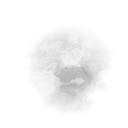
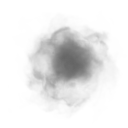
Explosion update.

Changed region(s): [[0.2188, 0.1875, 0.8438, 0.7812]]

diff --git a/Source/PlaySpace.cpp b/Source/PlaySpace.cpp
@@ -6,6 +6,7 @@
 
 #include "PlaySpace.h"
 #include "AssetDefinition.h"
+#include <Springbok/Procedural/Noise.h>
 #include <GL/gl.h>
 #include <Springbok/Animation/Interpolation.h>
 #include <Springbok/Utils/CliArgumentParser.h>
@@ -431,16 +432,23 @@ ContainerSubrange<ViewBase< Ship*, float >, Ship*> PlaySpace::findShips(Vec2F to
 	return GeoViews.Ships.XAxisView.getRange(topLeft.X, bottomRight.X);
 }
 
-void PlaySpace::castParticles(const Particle& def, Vec2F position, int amount, RangeF power, Color col, RangeF scale, RangeF lifetime)
+void PlaySpace::castParticles(const Particle& def, Vec2F position, int amount, RangeF power, Color col, RangeF scale, RangeF lifetime, float turbulenceFactor)
 {
 	for(int i = 0; i < amount; ++i)
 	{
+		Noise1D turbulence;
+		turbulence.Octaves = 2;
+		turbulence.Interval = 0.25f;
+		
 		Particle p(def);
-		Angle angle = Angle::FromTurn(gRNG.getFloat());
+		float angleF = gRNG.getFloat();
+		Angle angle = Angle::FromTurn(angleF);
+		float angTurb = turbulence.calc(angleF);
+		
 		p.Colorization = col;
 		p.Position = position;
 		p.Size = gRNG.getNumber(scale);
-		p.Speed = angle.toDirection() * gRNG.getNumber(power);
+		p.Speed = angle.toDirection() * power.interpolate(gRNG.getFloat()  * ((1-turbulenceFactor) + angTurb*angTurb*turbulenceFactor));
 		p.Rotation = angle;
 		p.LifeTimeMult = gRNG.getNumber(lifetime);
 		spawnParticle(p, false);
@@ -461,11 +469,11 @@ void PlaySpace::spawnExplosion(Vec2F position, float size, float force, Color fi
 {
 	RangeI amountParticles = RangeI(size/10, size/10+size/20);
 	std::cout << amountParticles << " Particles will be spawned" << std::endl;
-	castParticles(gAssets.ExplosionCloud,          position, gRNG.getNumber(amountParticles), {0.f, force*0.2f}, (fireColor+Colors::White)/2, {size/800, size/600}, {0.75f, 1.25f});
-	castParticles(gAssets.ExplosionCloudAdditive,  position, gRNG.getNumber(amountParticles), {0.f, force*0.2f}, fireColor, {size/1000, size/700}, {0.75f, 1.25f});
-	castParticles(gAssets.ExplosionSparks,         position, gRNG.getNumber(amountParticles), RangeF{force*0.9f, force*1.4f} + 10, fireColor);
+	//castParticles(gAssets.ExplosionCloud,          position, gRNG.getNumber(amountParticles), {0.f, force*2}, (fireColor+Colors::White)/2, {size/800, size/600}, {0.75f, 1.25f});
+	castParticles(gAssets.ExplosionCloudAdditive,  position, gRNG.getNumber(amountParticles), {0.f, force*0.5f}, fireColor, {size/1000, size/700}, {0.75f, 1.25f});
+	castParticles(gAssets.ExplosionSparks,         position, gRNG.getNumber(amountParticles), RangeF{force*1, force*3} + 10, fireColor);
 	
 	spawnParticle(gAssets.ExplosionFlash,          position, size/100, Angle::FromTurn(gRNG.getFloat()), fireColor, 1.f, true);
-	spawnParticle(gAssets.ExplosionShockwave,      position, size/40 , Angle::FromTurn(gRNG.getFloat()), fireColor, 1.f, true);
+	spawnParticle(gAssets.ExplosionShockwave,      position, force/80 , Angle::FromTurn(gRNG.getFloat()), fireColor, 1.f, true);
 	spawnParticle(gAssets.GlowParticle,            position, size/13 , Angle::FromTurn(gRNG.getFloat()), fireColor, 4.f, true);
 }

diff --git a/Source/PlaySpace.h b/Source/PlaySpace.h
@@ -44,7 +44,7 @@ public:
 	void spawnParticle(Particle particle, bool important = false);
 	
 	void spawnParticle(Particle def, Vec2F position, float scale, Angle rotation, Color col, float lifetime = 1.f, bool important = false);
-	void castParticles(const Particle& def, Vec2F position, int amount, RangeF power, Color col = Colors::White, RangeF scale = 1.f, RangeF lifetime = 1.f);
+	void castParticles(const Particle& def, Vec2F position, int amount, RangeF power, Color col = Colors::White, RangeF scale = 1.f, RangeF lifetime = 1.f, float turbulenceFactor = 1.0f);
 	
 	void spawnExplosion(Vec2F position, float size, float force, Color sparkColor);
 	void onActionInput(bool actionA, bool actionB, bool actionC);

diff --git a/Source/AssetDefinition.cpp b/Source/AssetDefinition.cpp
@@ -349,7 +349,7 @@ void AssetDefinition::initParticles()
 		p.DrawMode = RenderContext::Default;
 		p.Lifetime = 0.5f;
 		p.PhysicsProperties.Mass = -1.f;
-		p.PhysicsProperties.Drag = 4.f;
+		p.PhysicsProperties.Drag = 3.f;
 		
 		{
 			auto& anim = p.Animation.Alpha;
@@ -373,9 +373,10 @@ void AssetDefinition::initParticles()
 			auto& anim = p.Animation.Scale;
 			
 			anim.clear();
-			anim.insert(0.0f, 0.f);
-			anim.insert(0.1f, 1.f);
-			anim.insert(1.0f, 3.f);
+			anim.insert(0.0f, {0.f, 1.f});
+			anim.insert(0.02f, {1.f, 1.f});
+			anim.insert(0.6f, {2.f, 2.f});
+			anim.insert(1.0f, {3.f, 4.f});
 		}
 		
 		{

diff --git a/Source/Ship.cpp b/Source/Ship.cpp
@@ -247,8 +247,11 @@ void Ship::doDamage(float damage, PlaySpace* space)
 		ShieldEnergy -= damage;
 	else
 	{
-		Status = Destroyed;
-		space->spawnExplosion(Position, MaxShield*3, MaxShield*6, ImpulseColor);
+		if(Status != Destroyed)
+		{
+			Status = Destroyed;
+			space->spawnExplosion(Position, MaxShield*3, MaxShield*6, ImpulseColor);
+		}
 	}
 }
 
